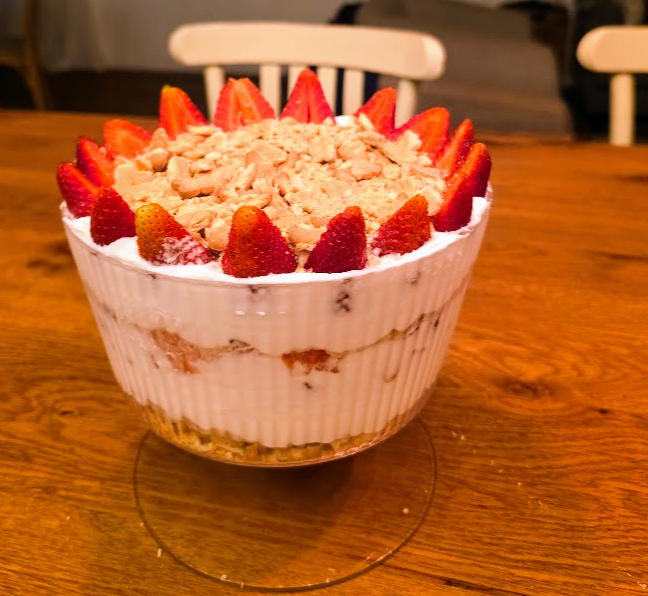
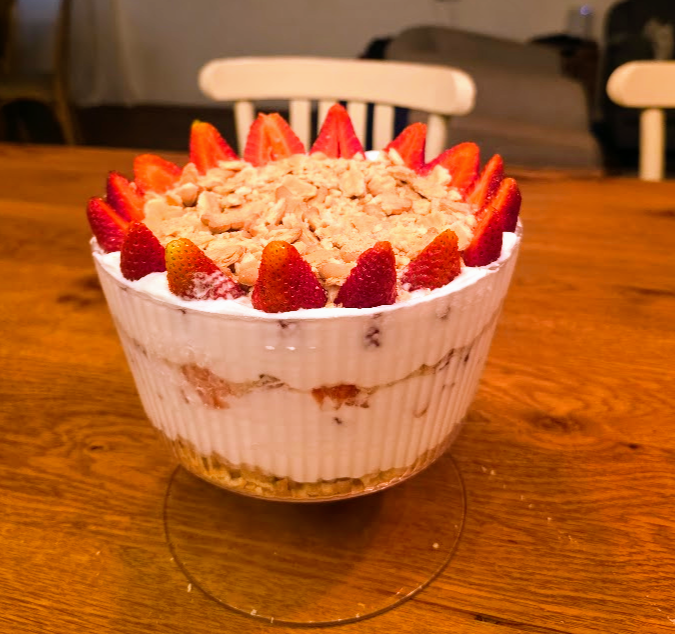
Replace trifle photo with better crop

diff --git a/index.html b/index.html
@@ -794,7 +794,7 @@
             <!-- Trifle Tutim -->
             <a href="recipes/trifle-tutim.html" class="recipe-card card-theme-plum" data-category="desserts">
                 <div class="card-visual">
-                    <div class="card-bg" style="background-size:cover;background-position:center top;background-image: url('images/trifle-tutim-photo.png')"></div>
+                    <div class="card-bg" style="background-size:cover;background-position:center;background-image: url('images/trifle-tutim-photo.png')"></div>
                     <span class="card-tag">קינוחים</span>
                     <span class="card-emoji">🍓</span>
                 </div>
